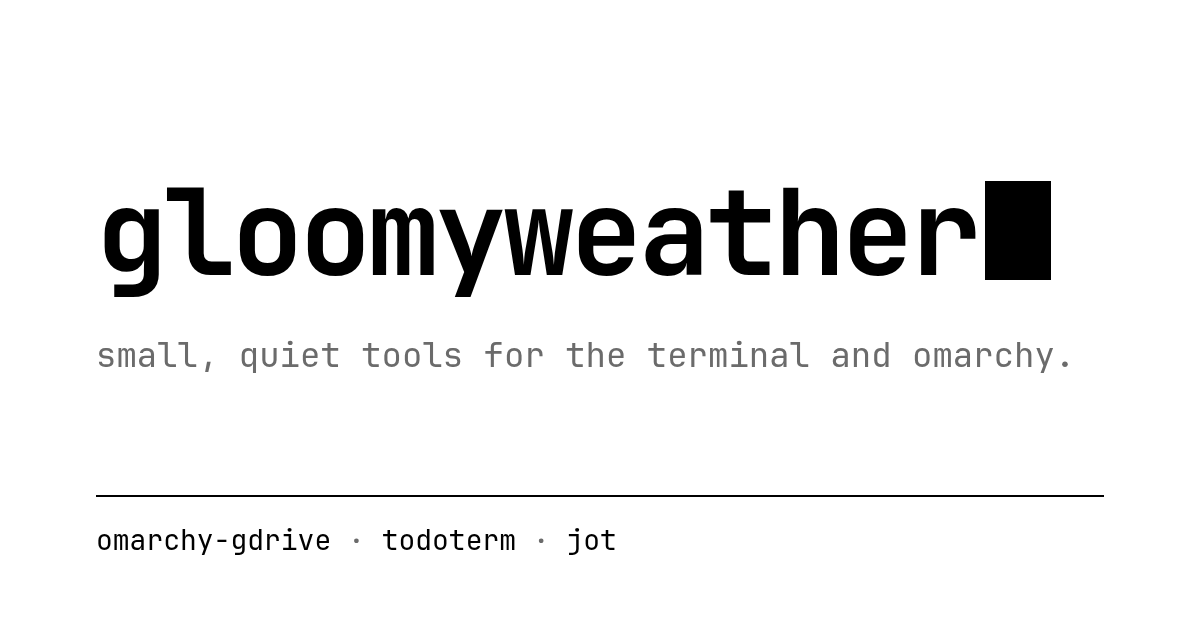
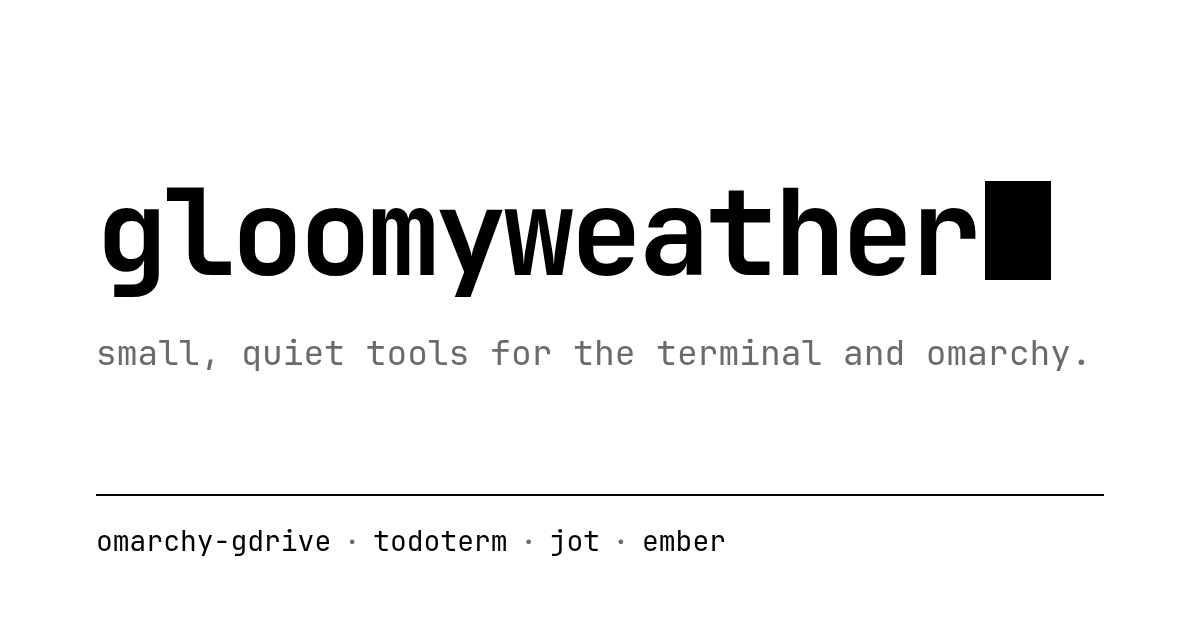
add ember theme

diff --git a/index.html b/index.html
@@ -17,7 +17,7 @@
 <meta name="color-scheme" content="light dark">
 <link rel="icon" href="favicon.svg" type="image/svg+xml">
 <link rel="preload" href="fonts/JetBrainsMono-Regular.woff2" as="font" type="font/woff2" crossorigin>
-<link rel="stylesheet" href="style.css?v=3">
+<link rel="stylesheet" href="style.css?v=4">
 </head>
 <body>
 <div class="page">
@@ -40,11 +40,12 @@
     <li><a href="#omarchy-gdrive"><span class="n">01</span><span class="name">omarchy-gdrive</span><span class="tag">google drive as a normal folder on omarchy.</span></a></li>
     <li><a href="#todoterm"><span class="n">02</span><span class="name">todoterm</span><span class="tag">a minimalist task manager for the terminal.</span></a></li>
     <li><a href="#jot"><span class="n">03</span><span class="name">jot</span><span class="tag">quick notes for the terminal.</span></a></li>
+    <li><a href="#ember"><span class="n">04</span><span class="name">ember</span><span class="tag">a black-and-white omarchy theme with one orange accent.</span></a></li>
   </ol>
 </nav>
 
 <section class="group" id="omarchy" aria-labelledby="omarchy-h">
-  <header><h2 id="omarchy-h">omarchy</h2><p>plugins and apps that hook into omarchy.</p></header>
+  <header><h2 id="omarchy-h">omarchy</h2><p>plugins, apps and a theme for omarchy.</p></header>
 
   <article class="project" id="omarchy-gdrive">
     <h3><span class="n">01</span>omarchy-gdrive</h3>
@@ -129,6 +130,25 @@ contrib/omarchy/install.sh</pre>
 cd jot
 contrib/omarchy/install.sh</pre>
     <p class="meta"><span>rust · gpl-3.0 · 0.1.0</span><span><a href="https://github.com/gloomyweather/jot">source</a></span></p>
+  </article>
+
+  <article class="project" id="ember">
+    <h3><span class="n">04</span>ember<span class="mark" aria-hidden="true">◐</span></h3>
+    <p class="tagline">a black-and-white omarchy theme with one orange accent.</p>
+    <figure class="win">
+      <figcaption><span>ember · ember-light</span><span>4 of 24 wallpapers</span></figcaption>
+      <img class="shot" src="ember.webp" width="1424" height="802" loading="lazy" decoding="async" alt="four ember wallpapers: a plutarch quote over an orange glow and a striped half-sun on black, a giant orange ampersand and thin orange rings on white">
+    </figure>
+    <ul>
+      <li>pure black, pure white and <code>#d97757</code>. window borders, the bar and the keywords in your editor all burn the same quiet orange.</li>
+      <li>a dark and a light version. switch between them like any omarchy theme.</li>
+      <li>twelve wallpapers each: a soft glow, thin rings, a striped sun, a lora ampersand, a few quiet quotes. drawn by a script, not downloaded.</li>
+      <li>an orange boot and unlock logo to match.</li>
+    </ul>
+    <pre class="cmd">omarchy theme install https://github.com/gloomyweather/omarchy-ember-theme
+omarchy theme install https://github.com/gloomyweather/omarchy-ember-light-theme
+omarchy theme set ember</pre>
+    <p class="meta"><span>theme · mit</span><span><a href="https://github.com/gloomyweather/omarchy-ember-theme">dark</a><a href="https://github.com/gloomyweather/omarchy-ember-light-theme">light</a></span></p>
   </article>
 </section>
 </main>

diff --git a/style.css b/style.css
@@ -78,6 +78,7 @@ p, li { margin: 0 0 12px; }
 /* tui captures: 84 columns, scaled to fit the column */
 .win { margin: 0 0 8px; border: 1px solid var(--ink); container-type: inline-size; }
 .win figcaption { display: flex; justify-content: space-between; gap: 16px; padding: 5px 12px; border-bottom: 1px solid var(--ink); font-size: 12px; color: var(--faint); }
+.shot { display: block; width: 100%; height: auto; }
 .tui {
   margin: 0;
   padding: 12px 0;

diff --git a/404.html b/404.html
@@ -6,7 +6,7 @@
 <title>not found · gloomyweather</title>
 <meta name="color-scheme" content="light dark">
 <link rel="icon" href="/favicon.svg" type="image/svg+xml">
-<link rel="stylesheet" href="/style.css?v=3">
+<link rel="stylesheet" href="/style.css?v=4">
 </head>
 <body>
 <div class="page">

diff --git a/README.md b/README.md
@@ -3,5 +3,5 @@
 my home page: [gloomyweather.github.io](https://gloomyweather.github.io).
 
 plain html and css, no build step, no scripts. edit `index.html`, push, done.
-the terminal pictures are text captures of the real apps (todoterm, jot).
+the terminal pictures are text captures of the real apps (todoterm, jot). `ember.webp` is four of the theme's wallpapers.
 the font is [jetbrains mono](https://www.jetbrains.com/lp/mono/) 2.304, served from `fonts/` (ofl, see `fonts/OFL.txt`).
